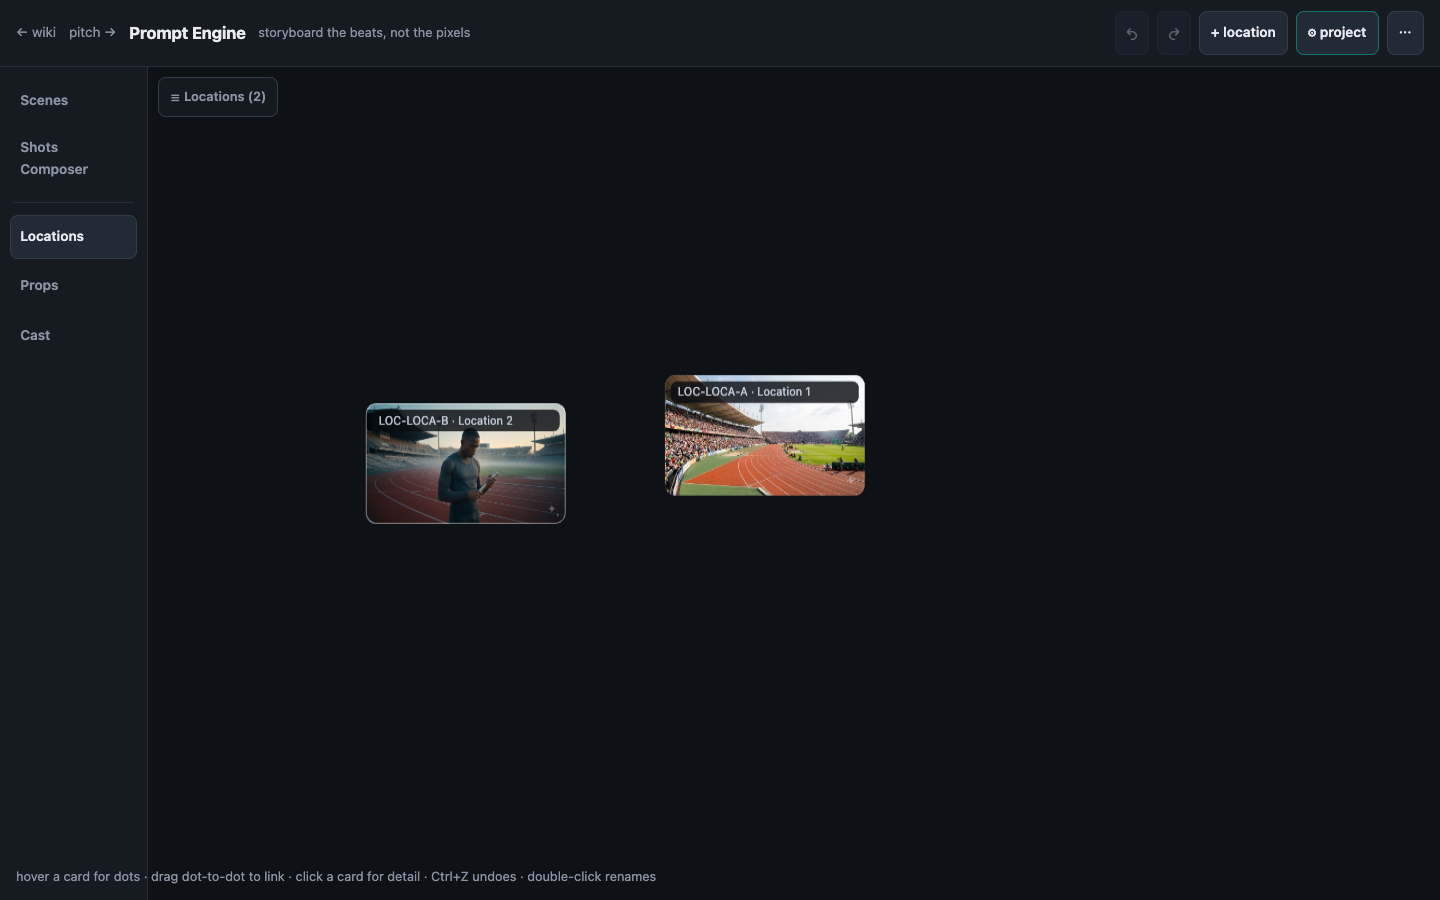
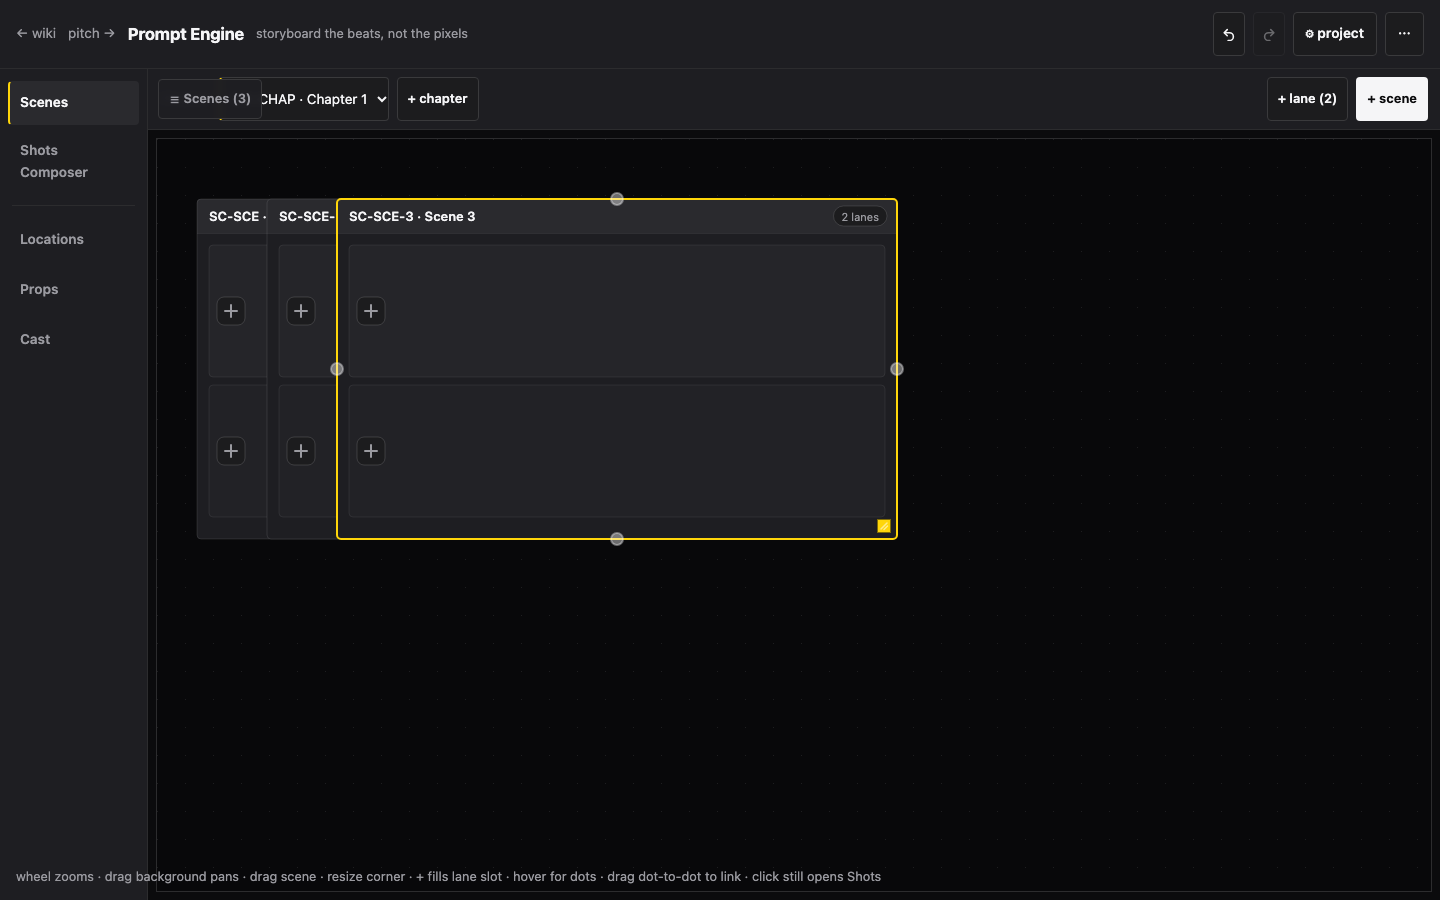
engine: fix canvas void, inset nav, restore a primary action and visible state colour

diff --git a/engine.html b/engine.html
@@ -43,7 +43,7 @@ header .by{color:var(--mut);font-size:var(--typography-size-meta)}
 .tools button:disabled:hover{border-color:var(--border-strong)}
 .tools button.hist{padding:var(--spacing-6) var(--spacing-xs);display:inline-flex;align-items:center}
 .tools button.hist svg{display:block}
-#cv{flex:1;width:100%;display:block;background:var(--color-neutral-black);cursor:grab;touch-action:none}
+#cv{flex:1;width:auto;display:block;margin:var(--spacing-xs);background:var(--color-pro-canvas);border:var(--border-width-hairline) solid var(--border);cursor:grab;touch-action:none}
 .hint{position:fixed;left:1rem;bottom:.8rem;color:var(--mut);font-size:var(--typography-size-meta);pointer-events:none;max-width:90vw}
 #arrowpick{position:fixed;z-index:var(--z-bar);background:var(--panel);color:var(--ink);border:var(--border-width-hairline) solid var(--border-strong);border-radius:var(--radius-sm);box-shadow:var(--elevation-popover);padding:var(--spacing-xs) var(--spacing-10);font:var(--typography-size-timecode)/1.4 system-ui,-apple-system,"Segoe UI",sans-serif;display:flex;flex-direction:column;gap:var(--spacing-6);user-select:none}
 #arrowpick[hidden]{display:none}
@@ -98,10 +98,10 @@ header .by{color:var(--mut);font-size:var(--typography-size-meta)}
 #drawerAddImg{background:var(--acc);border:0;border-radius:var(--radius-xs);color:var(--color-engine-accent-ink);font-weight:700;padding:var(--spacing-6) var(--spacing-14);cursor:pointer;font-size:var(--typography-size-small)}
 #drawerAddImg:hover{filter:brightness(1.1)}
 #main{flex:1;display:flex;min-height:0}
-#side{width:var(--layout-sidebar-engine);flex:none;background:var(--panel);border-right:var(--border-width-hairline) solid var(--border);padding:var(--spacing-sm) var(--spacing-10);display:flex;flex-direction:column;gap:var(--spacing-6)}
-#side button{font:inherit;font-size:var(--typography-size-small);font-weight:600;color:var(--mut);background:transparent;border:var(--border-width-hairline) solid transparent;border-radius:var(--radius-xs);padding:var(--spacing-xs) var(--spacing-10);text-align:left;cursor:pointer}
+#side{width:var(--layout-sidebar-engine);flex:none;background:var(--panel);border-right:var(--border-width-hairline) solid var(--border);padding:var(--spacing-sm) var(--spacing-xs);display:flex;flex-direction:column;gap:var(--spacing-6)}
+#side button{font:inherit;font-size:var(--typography-size-small);font-weight:600;color:var(--mut);background:transparent;border:var(--border-width-hairline) solid transparent;border-left:var(--border-width-strong) solid transparent;border-radius:var(--radius-xs);padding:var(--spacing-xs) var(--spacing-10);text-align:left;cursor:pointer}
 #side button:hover{color:var(--ink);background:var(--tool-hover)}
-#side button.on{color:var(--ink);background:var(--tool);border-color:var(--border-strong)}
+#side button.on{color:var(--ink);background:var(--color-pro-surface-2);border-color:transparent;border-left-color:var(--sel)}
 .side-div{height:1px;background:var(--border);margin:var(--spacing-6) var(--spacing-2xs)}
 #stage{flex:1;display:flex;flex-direction:column;min-width:0;position:relative}
 #cardMenuBtn{position:absolute;z-index:var(--z-sticky);min-width:var(--tap-min);min-height:var(--tap-min);width:var(--tap-min);height:var(--tap-min);padding:0;border-radius:var(--radius-xs);border:var(--border-width-hairline) solid var(--color-engine-wash-25);background:var(--color-pro-overlay-scrim);color:var(--ink);font-size:var(--typography-size-body);line-height:1;cursor:pointer;display:flex;align-items:center;justify-content:center}
@@ -133,6 +133,11 @@ header .by{color:var(--mut);font-size:var(--typography-size-meta)}
 #chapterbar button{font:inherit;font-size:var(--typography-size-meta);font-weight:600;color:var(--ink);background:var(--tool);border:var(--border-width-hairline) solid var(--border-strong);border-radius:var(--radius-xs);padding:var(--spacing-2xs) var(--spacing-10);cursor:pointer}
 #chapterbar button:hover{border-color:var(--color-pro-text-secondary)}
 #chapterbar .sp{flex:1}
+/* state: the visible chapter is the active one — selection colour marks it */
+#chapterbar select{border-left:var(--border-width-strong) solid var(--color-pro-selection)}
+/* primary affordance: one white/ink control per view (+ scene, or + shot/prop/cast/location) */
+#chapterbar #addScene,#addNode{background:var(--color-pro-text-primary);border-color:transparent;color:var(--color-pro-surface-0);font-weight:700}
+#chapterbar #addScene:hover,#addNode:hover{background:var(--color-pro-text-primary);border-color:transparent;color:var(--color-pro-surface-0)}
 #projBtn{border-color:var(--teal)}
 #anchorRow{display:flex;gap:var(--spacing-xs);align-items:center;font-size:var(--typography-size-meta);margin:var(--spacing-6) 0;flex-wrap:nowrap}
 #anchorRow code,#anchorRow button{min-height:var(--touch-min);display:inline-flex;align-items:center;padding:0 var(--spacing-10);font-size:var(--typography-size-meta);line-height:1;border-radius:var(--radius-xs);white-space:nowrap;margin:0;box-sizing:border-box}
@@ -184,7 +189,7 @@ header .by{color:var(--mut);font-size:var(--typography-size-meta)}
 .proj-wrap{display:flex;border:var(--border-width-hairline) solid var(--border);border-radius:var(--radius-sm);overflow:hidden;min-height:380px;max-height:62vh;background:var(--color-pro-surface-0)}
 .proj-wrap .pm-nav{width:150px;flex:none;background:var(--bg);border-right:var(--border-width-hairline) solid var(--border);padding:var(--spacing-sm) 0;display:flex;flex-direction:column;gap:var(--spacing-2xs);overflow:auto}
 #projNav{display:flex;flex-direction:column;gap:var(--spacing-2xs)}
-#projNav button{background:transparent;border:0;border-left:var(--border-width-accent) solid transparent;border-radius:var(--radius-none);color:var(--mut);font-size:var(--typography-size-small);line-height:1.5;text-align:left;padding:var(--spacing-xs) var(--spacing-20);cursor:pointer;width:100%;box-sizing:border-box}
+#projNav button{background:transparent;border:0;border-left:var(--border-width-strong) solid transparent;border-radius:var(--radius-none);color:var(--mut);font-size:var(--typography-size-small);line-height:1.5;text-align:left;padding:var(--spacing-xs) var(--spacing-20);cursor:pointer;width:100%;box-sizing:border-box}
 #projNav button:hover{color:var(--ink);background:var(--tool-hover)}
 #projNav button.on{border-left-color:var(--sel);color:var(--ink);background:var(--color-pro-surface-2);font-weight:600}
 #projNav button.off{opacity:.55}
@@ -243,7 +248,7 @@ header .by{color:var(--mut);font-size:var(--typography-size-meta)}
 .pm-nav{width:var(--layout-sidebar-engine);flex:none;background:var(--bg);border-right:var(--border-width-hairline) solid var(--border);padding:var(--spacing-sm) 0;display:flex;flex-direction:column;gap:var(--spacing-2xs);overflow:auto}
 .pm-nav .pmtitle{font-size:var(--typography-size-eyebrow);text-transform:uppercase;letter-spacing:.06em;color:var(--mut);line-height:1.5;margin:0 var(--spacing-20) var(--spacing-xs)}
 #pmNav{display:flex;flex-direction:column;gap:var(--spacing-2xs)}
-#pmNav button{background:transparent;border:0;border-left:var(--border-width-accent) solid transparent;border-radius:var(--radius-none);color:var(--mut);font-size:var(--typography-size-small);line-height:1.5;text-align:left;padding:var(--spacing-xs) var(--spacing-20);cursor:pointer;width:100%;box-sizing:border-box;transition:transform var(--motion-duration-slow) var(--motion-easing-emphasized),opacity var(--motion-duration-tab) var(--motion-easing-out);transition-delay:calc(.10s + var(--i,0)*16ms)}
+#pmNav button{background:transparent;border:0;border-left:var(--border-width-strong) solid transparent;border-radius:var(--radius-none);color:var(--mut);font-size:var(--typography-size-small);line-height:1.5;text-align:left;padding:var(--spacing-xs) var(--spacing-20);cursor:pointer;width:100%;box-sizing:border-box;transition:transform var(--motion-duration-slow) var(--motion-easing-emphasized),opacity var(--motion-duration-tab) var(--motion-easing-out);transition-delay:calc(.10s + var(--i,0)*16ms)}
 #drawer:not(.editing) ~ #editPanel #pmNav button{transform:translateX(-8px);opacity:0;transition-delay:0s}
 #pmNav button:hover{color:var(--ink);background:var(--tool-hover)}
 #pmNav button.on{border-left-color:var(--sel);color:var(--ink);background:var(--color-pro-surface-2);font-weight:600}
@@ -270,7 +275,7 @@ header .by{color:var(--mut);font-size:var(--typography-size-meta)}
 #menDrop[hidden]{display:none}
 #menDrop button{display:flex;gap:var(--spacing-xs);align-items:baseline;width:100%;box-sizing:border-box;background:transparent;border:0;border-radius:var(--radius-xs);color:var(--ink);font:inherit;font-size:var(--typography-size-small);text-align:left;padding:var(--spacing-6) var(--spacing-xs);cursor:pointer}
 #menDrop button b{color:var(--mut);font-weight:600;white-space:nowrap}
-#menDrop button:hover{background:var(--tool-hover)}#menDrop button.on{background:var(--color-pro-surface-2)}
+#menDrop button:hover{background:var(--tool-hover)}#menDrop button.on{background:var(--color-pro-surface-2);box-shadow:inset var(--border-width-strong) 0 0 var(--sel)}
 #menDrop .men-no{color:var(--mut);font-size:var(--typography-size-meta);font-style:italic;padding:var(--spacing-6) var(--spacing-xs)}
 #menDrop #menFilter{width:100%;box-sizing:border-box;background:var(--tool);color:var(--ink);border:var(--border-width-hairline) solid var(--border-strong);border-radius:var(--radius-xs);padding:var(--spacing-6) var(--spacing-xs);font:inherit;font-size:var(--typography-size-small);margin-bottom:var(--spacing-2xs)}
 #menDrop .men-grp{font-size:var(--typography-size-eyebrow);text-transform:uppercase;letter-spacing:.05em;color:var(--mut);padding:var(--spacing-6) var(--spacing-xs) var(--spacing-2)}

diff --git a/design-system/tokens.css b/design-system/tokens.css
@@ -2,7 +2,7 @@
    tokens.css — GENERATED FILE, DO NOT EDIT BY HAND.
    Source:     design-system/tokens.json
    Regenerate: node scripts/build-tokens.mjs
-   Tokens:     229
+   Tokens:     230
    ========================================================================== */
 
 :root {
@@ -108,6 +108,7 @@
   --color-pro-surface-1: #1E1E22;
   --color-pro-surface-2: #2A2A2E;
   --color-pro-surface-deep: #0C0C0C;
+  --color-pro-canvas: #08080A;
   --color-pro-text-primary: #F5F5F7;
   --color-pro-text-secondary: #9A9AA0;
   --color-pro-tool: #1C1C1E;

diff --git a/design-system/audit-report.md b/design-system/audit-report.md
@@ -10,7 +10,7 @@ node scripts/lint-tokens.mjs --check  # CI gate: no write, exit 1 on failure
 ```
 
 - Generated: 2026-11-23
-- Tokens defined: 229 (`design-system/tokens.css`)
+- Tokens defined: 230 (`design-system/tokens.css`)
 - Files scanned: `index.html`, `pitch.html`, `engine.html`, `design-system/index.html`
 - Result: **PASS** — 0 violation(s), 21 exempt, 0 bad-allow
 
@@ -20,9 +20,9 @@ node scripts/lint-tokens.mjs --check  # CI gate: no write, exit 1 on failure
 |---|---:|---:|---:|---:|---:|---:|---:|---:|---:|---:|---:|---:|---:|---:|
 | `index.html` | 0 | 0 | 0 | 0 | 0 | 0 | 0 | 0 | 0 | 1 | 0 | 2 | 19 | 395 |
 | `pitch.html` | 0 | 0 | 0 | 0 | 0 | 0 | 0 | 0 | 0 | 7 | 0 | 14 | 32 | 428 |
-| `engine.html` | 0 | 0 | 0 | 0 | 0 | 0 | 0 | 0 | 0 | 10 | 0 | 1 | 2 | 961 |
+| `engine.html` | 0 | 0 | 0 | 0 | 0 | 0 | 0 | 0 | 0 | 10 | 0 | 1 | 2 | 973 |
 | `design-system/index.html` | 0 | 0 | 0 | 0 | 0 | 0 | 0 | 0 | 0 | 3 | 0 | 0 | 148 | 795 |
-| **Total** | **0** | **0** | **0** | **0** | **0** | **0** | **0** | **0** | **0** | **21** | **0** | **17** | **201** | **2579** |
+| **Total** | **0** | **0** | **0** | **0** | **0** | **0** | **0** | **0** | **0** | **21** | **0** | **17** | **201** | **2591** |
 
 ## Violation detail
 
@@ -53,13 +53,13 @@ _No violations._
 | 1 | V1 | `#0B0B0D` | meta theme-color cannot resolve custom properties; value mirrors --color-pro-surface-0 (#0B0B0D) |
 | 110 | V8 | `padding:5px` | 5px menu inset sits between 4 and 6; snapping reflows the menu rows |
 | 117 | V8 | `padding:5px` | 5px panel inset sits between 4 and 6; snapping reflows the asset rows |
-| 144 | V8 | `padding-top:2.3rem` | 2.3rem prompt-label clearance is layout-scale, beyond the 32px step |
-| 148 | V3 | `z-index:3` | drawer menu stacks one step above drawer content; no z token holds 3 (nearest --z-content 2) and adding z.raise.deep would invent a step for one element |
-| 259 | V8 | `margin:0 0 var(--spacing-2xs) 118px` | 118px label indent aligns to the field column, not the rhythm |
-| 260 | V8 | `padding:1px var(--spacing-xs)` | 1px chip inset is an optical hairline; no 2px step exists |
-| 283 | V8 | `padding:0 0 0 3px` | 3px chip inset cancels the -3px gutter so the token stays flush |
-| 283 | V8 | `margin:0 0 0 -3px` | 3px chip inset cancels the -3px gutter so the token stays flush |
-| 1198 | V3 | `z-index:80` | fixed node-picker popover must clear --z-overlay (60) and stay below --z-canvas (90); no token holds 80 and inventing z.critical for one node would fork the scale |
+| 149 | V8 | `padding-top:2.3rem` | 2.3rem prompt-label clearance is layout-scale, beyond the 32px step |
+| 153 | V3 | `z-index:3` | drawer menu stacks one step above drawer content; no z token holds 3 (nearest --z-content 2) and adding z.raise.deep would invent a step for one element |
+| 264 | V8 | `margin:0 0 var(--spacing-2xs) 118px` | 118px label indent aligns to the field column, not the rhythm |
+| 265 | V8 | `padding:1px var(--spacing-xs)` | 1px chip inset is an optical hairline; no 2px step exists |
+| 288 | V8 | `padding:0 0 0 3px` | 3px chip inset cancels the -3px gutter so the token stays flush |
+| 288 | V8 | `margin:0 0 0 -3px` | 3px chip inset cancels the -3px gutter so the token stays flush |
+| 1203 | V3 | `z-index:80` | fixed node-picker popover must clear --z-overlay (60) and stay below --z-canvas (90); no token holds 80 and inventing z.critical for one node would fork the scale |
 
 ### `design-system/index.html` — Exempt (3)
 
